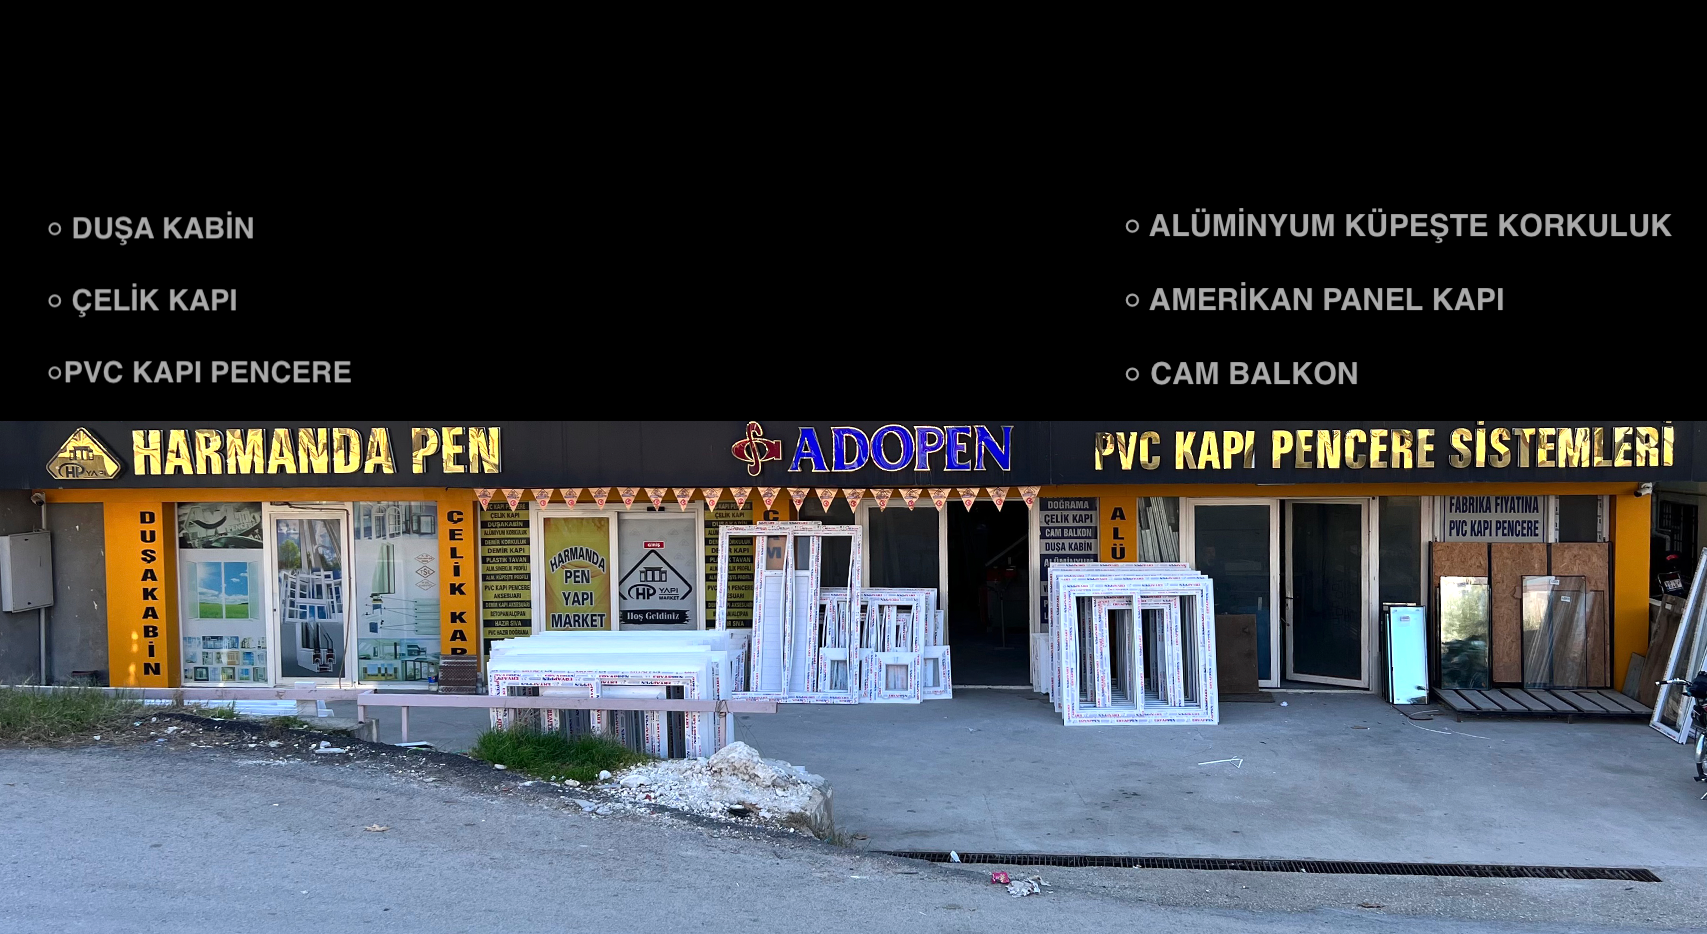
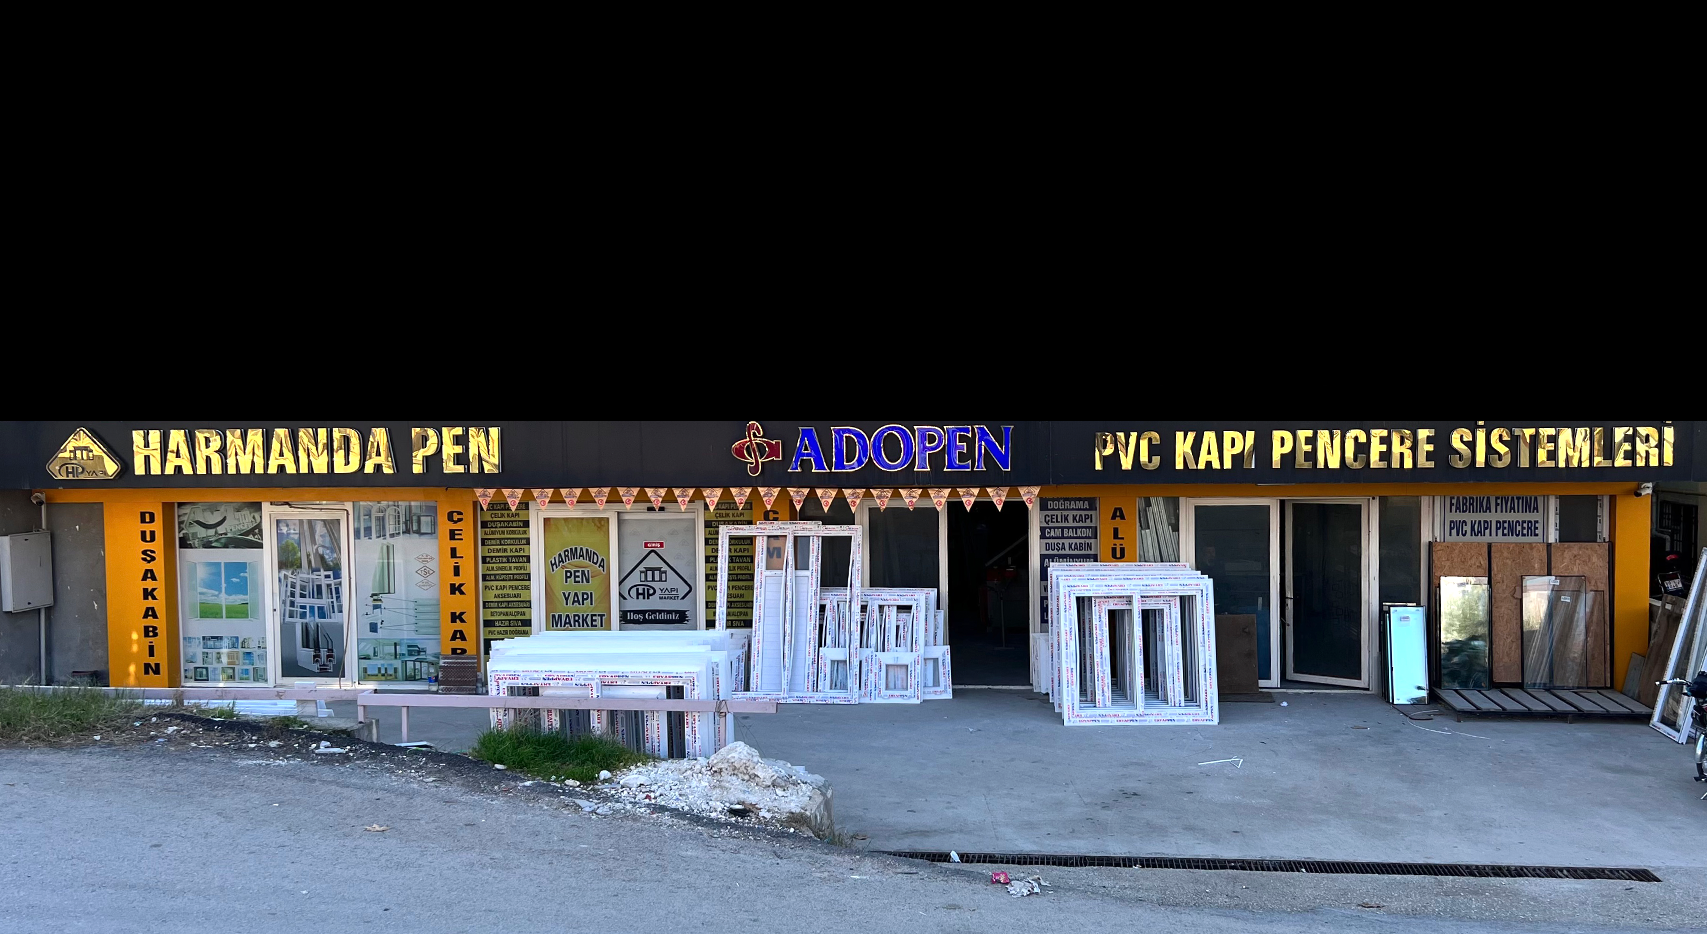
Add files via upload

diff --git a/index.html b/index.html
@@ -50,6 +50,10 @@
 
     <div class="bg-image img1">
       <h1><img id="top-logo" src="top-logo.png" alt="" /></h1>
+      <h2 class="list-cont">
+        ○ DUŞA KABİN ○ ÇELİK KAPI ○ CAM BALKON ○ PVC KAPI-PENCERE ○ ALÜMİNYUM
+        KÜPEŞTE KORKULUK ○ AMERİKAN PANEL KAPI ○ CAM BALKON SİSTEMLERİ
+      </h2>
     </div>
     <div class="bg-image img2">
       <h1>SİZİN İÇİN EN İYİSİ!</h1>

diff --git a/indexstyles.css b/indexstyles.css
@@ -81,6 +81,10 @@ h2{
     font-family: 'Source Sans Pro', sans-serif;
     width: 30rem;
 }
+.list-cont{
+  margin-top: 6rem;
+  width: 71%;
+}
   .bg-image {
   
     height: 70%;
